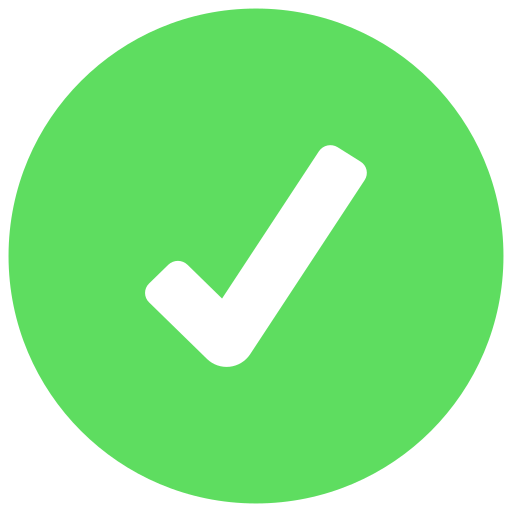
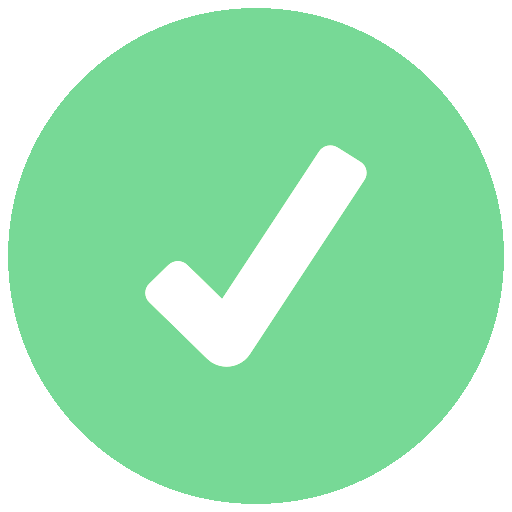
fixed vehicle rating system, replaced go to map button

diff --git a/scripts/safetyRating.js b/scripts/safetyRating.js
@@ -12,11 +12,11 @@ window.onload = () => {
     driveBtn = document.getElementById('drive-btn').onclick = () => {
         $('#modal').modal('show');
     };
-    
+
     modalCancelBtn = document.getElementById('cancel-safety-modal').onclick = () => {
         $('#modal').modal('hide');
     }
-    
+
     modalConfirmBtn = document.getElementById('confirm-safety-modal').onclick = () => {
         const param = new URL(window.location.href).searchParams.get('formattedAddress');
         const url = 'https://www.google.com/maps/dir/' + param;
@@ -61,9 +61,9 @@ function calcRating() {
         weights: {
             visibility: (x) => x * (x * x) / 100, // Exponential weight because visibility matters less the more you have
             dark: (x) => x * 0.6,
-            temperature: (x) => x,
+            temperature: (x) => 1.5 * x,
             windSpeed: (x) => x * 0.4,
-            percipitation: (x) => x,
+            percipitation: (x) => 2 * x,
         },
         values: {
             visibility: weather.visibility > 1000 ? 0 : 10 - weather.visibility / 100, // From 0 m - 1000 m
@@ -84,7 +84,6 @@ function calcRating() {
     }
     ratingDisplay.innerHTML = ConditionsRating.rating;
     const VehicleRating = getVehicleRating(ConditionsRating);
-
     let finalRating = getFinalRating(ConditionsRating, VehicleRating);
     spinNeedle(finalRating);
     populateRatingInfo(finalRating, weather);
@@ -115,6 +114,7 @@ function getFinalRating(conditionsRating, vehicleRating) {
     const bias = 0.5;
     let value = (conditionsRating.rating - vehicleRating) / (conditionsRating.worstRating * bias); // From 0 to 1
     if (value < 0) value = 0;
+    if (value > 1) value = 1;
     return value;
 }
 
@@ -122,13 +122,14 @@ function getFinalRating(conditionsRating, vehicleRating) {
 // takes weather conditions rating object
 // returns vehicle rating
 function getVehicleRating(conditionsRating) {
-    let vehicle = localStorage.getItem('vehicle');
+    let vehicleBias = 2; // Relative weight of vehicle
+
+    let vehicle = new URL(window.location.href).searchParams.get('vehicle')
     vehicle = JSON.parse(vehicle);
     if (vehicle == null) return 0;
 
     let vehicleRating = 0;
-
-    if (vehicle.type == 'SUV' || vehicle.type == 'Truck') vehicleRating += 1;
+    if (vehicle.type == 'SUV' || vehicle.type == 'Truck') vehicleRating += 2;
     if (vehicle.tire == 'Summer' && conditionsRating.values.temperature == 10) vehicleRating += 0;
     if (vehicle.tire == 'All Weather' && conditionsRating.values.temperature == 10) vehicleRating += 3;
     if (vehicle.tire == 'Winter' && conditionsRating.values.temperature == 10) vehicleRating += 6;
@@ -136,7 +137,7 @@ function getVehicleRating(conditionsRating) {
         || conditionsRating.values.percipitation == 8)) vehicleRating += 1;
     if ((vehicle.drivetrain == 'All Wheel Drive' || vehicle.drivetrain == '4x4') &&
         (conditionsRating.values.temperature == 10 || conditionsRating.values.percipitation == 8)) vehicleRating += 3;
-    return vehicleRating;
+    return vehicleRating * vehicleBias;
 }
 
 // Animates the speedometer display and changes rating number
@@ -164,7 +165,21 @@ function spinNeedle(value) {
 
         ball.style.rotate = ballDeg.toString() + 'deg';
         ballFill.style.rotate = ballFillDeg.toString() + 'deg';
-        ratingDisplay.innerHTML = Math.round(tempVal * 100);
+        let severity = 'Safe';
+        let colour = '#77d996'
+        if (tempVal >= 0.25) severity = 'Moderate';
+        if (tempVal >= 0.33) colour = '#ffbe31';
+        if (tempVal >= 0.5) severity = 'Risky';
+        if (tempVal >= 0.66) colour = '#e15554';
+        if (tempVal >= 0.75) severity = 'Dangerous';
+        if (tempVal == 1) severity = 'Extreme';
+
+        ratingDisplay.innerHTML = severity;
+        document.querySelectorAll('.severity').forEach(div => {
+            div.style.backgroundColor = colour;
+        });
+        document.getElementById('ball-fill').style.borderLeftColor = colour;
+        document.getElementById('ball-fill').style.borderTopColor = colour;
     }
 }
 

diff --git a/scripts/map.js b/scripts/map.js
@@ -24,10 +24,10 @@ window.onload = () => {
   searchbutton.onclick = search;
 
   searchbarFrom = document.getElementById('searchbar-from');
-  searchbarFrom.value = "3410 applewood dr abbotsford";
+  // searchbarFrom.value = "3410 applewood dr abbotsford";
 
   searchbarTo = document.getElementById('searchbar-to');
-  searchbarTo.value = "mei secondary abbotsford";
+  // searchbarTo.value = "mei secondary abbotsford";
 
   circleBtn = document.getElementById('show-car-btn').onclick = () => {
     displayCar();
@@ -97,7 +97,26 @@ function nextPage() {
   let url = './safetyRating.html?';
   url += `from=${from}&to=${to}`;
   url += `&formattedAddress=${formattedFrom}/${formattedTo}`;
-  window.location.href = url;
+
+  // Adds vehicle information
+  firebase.auth().onAuthStateChanged(user => {
+    if (user) {
+
+      let currentUser = db.collection("users").doc(user.uid);
+      currentUser.get()
+        .then(userDoc => {
+          let vehicle = {
+            drivetrain: userDoc.data().vehicle_drivetrain,
+            tire: userDoc.data().vehicle_tires,
+            type: userDoc.data().vehicle_type,
+          }
+          url += `&vehicle=${JSON.stringify(vehicle)}`;
+          window.location.href = url;
+        })
+    } else {
+      window.location.href = './login.html';
+    }
+  })
 };
 
 function calcRoute() {
@@ -119,7 +138,7 @@ function runConfirm() {
   searchbar.style.display = 'none';
 }
 
-async function displayCar() {
+function displayCar() {
   firebase.auth().onAuthStateChanged(user => {
     if (user) {
 

diff --git a/styles/style.css b/styles/style.css
@@ -129,7 +129,7 @@
 .ball {
     width: 24px;
     height: 24px;
-    background-color: rgb(252, 53, 53);
+    background-color: #77d996;
     border-radius: 100%;
     position: relative;
     left: 108px;
@@ -141,8 +141,8 @@
 
 .ball-fill {
     border-radius: 100%;
-    border-top: 120px solid rgb(252, 53, 53);
-    border-left: 120px solid rgb(252, 53, 53);
+    border-top: 120px solid #77d996;
+    border-left: 120px solid #77d996;
     border-bottom: 120px solid black;
     border-right: 120px solid black;
     position: absolute;
@@ -171,7 +171,7 @@
     border-radius: 100%;
     width: 20px;
     height: 20px;
-    background-color: rgb(252, 53, 53);
+    background-color: #77d996;
     position: absolute;
     right: 220px;
     top: 110px;
@@ -272,10 +272,14 @@
 }
 
 #go-icon {
-    width: 60px;
+    width: 40px;
     height: 100%;
     display: inline;
-    margin-left: 40px;
+    margin-left: 5px;
+    filter: invert();
+}
+#go-to-map-btn {
+    margin-left: 20px;
 }
 
 #save-vehicle {
@@ -349,6 +353,10 @@
 
 a {
     color: inherit;
+}
+
+#dropdownMenuLink {
+    width: 215px;
 }
 
 .dropdown-menu {

diff --git a/app/safetyRating.html b/app/safetyRating.html
@@ -25,16 +25,16 @@
   <!-- Navbar -->
   <div id="navbar"></div>
 
-  <h2 id="header">Selected Route's<br>Danger Rating:</h2>
+  <h2 id="header"><b>Selected Route's<br>Danger Rating:</b></h2>
   
   <div id="safety-speedometer">
     <div class="half-circle">
       <div class="ball-fill" id="ball-fill"></div>
       <div class="mask-bot"></div>
       <div class="mask-mid"></div>
-      <div class="left-circle"></div>
+      <div class="left-circle severity"></div>
       <div class="right-circle"></div>
-      <div class="ball" id="ball"></div>
+      <div class="ball severity" id="ball"></div>
     </div>
     <!-- <img src="../images/speedometer.png" alt="speedometer" id="speedometer">
     <img src="../images/needle.png" alt="speedometer needle" id="needle"> -->

diff --git a/text/vehicle_info.html b/text/vehicle_info.html
@@ -32,7 +32,11 @@
       <img id="vehicle-icon" src="" alt="vehicle">
       <a href="./map.html" style="text-decoration: none;">
         <!-- <span style="position: relative; left: 88px; font-size: 1em; color: white">Go!</span> -->
-        <img id="go-icon" src="../images/go.png" alt="vehicle">
+
+        <button class="btn btn-secondary" type="button" id="go-to-map-btn">
+          Go to map
+          <img id="go-icon" src="../images/map.png" alt="vehicle">
+        </button>
       </a>
     </div>
     <div class="card" id="vehicle-info-card">

diff --git a/scripts/addVehicle.js b/scripts/addVehicle.js
@@ -40,8 +40,7 @@ function addVehicle() {
                     tire: tire,
                     drivetrain: drivetrain
                 };
-                // Adds vehicle to local storage
-                localStorage.setItem('vehicle', JSON.stringify(vehicleObj));
+
                 window.location.assign("vehicle.html");
             }).catch(function (error) {
                 console.log("Error adding new vehicle: " + error);

diff --git a/app/editVehicle.html b/app/editVehicle.html
@@ -37,7 +37,7 @@
   <!-- Navbar -->
   <div id="navbar"></div>
   <div id="new-vehicle-form">
-    <h2 id="header">Edit My Vehicle:</h2>
+    <h2 id="header"><b>Edit My Vehicle:</b></h2>
     <img src="../images/tag.png" alt="nametag" class="spec-icon">
     <div class="mb-3">
       <input type="vehicle_name" id="vehicle_name" class="form-control" placeholder="Enter a nickname...">

diff --git a/app/new_vehicle_add.html b/app/new_vehicle_add.html
@@ -37,7 +37,7 @@
   <!-- Navbar -->
   <div id="navbar"></div>
   <div id="new-vehicle-form">
-    <h2 id="header">Add New Vehicle:</h2>
+    <h2 id="header"><b>Add New Vehicle:</b></h2>
 
     <img src="../images/tag.png" alt="nametag" class="spec-icon">
     <div class="mb-3">
